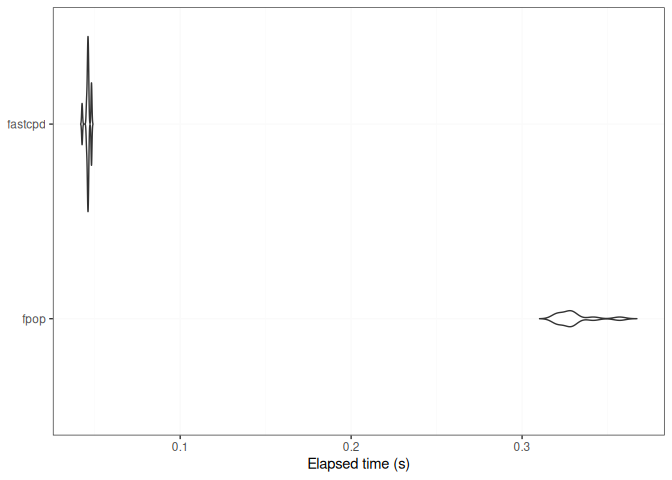
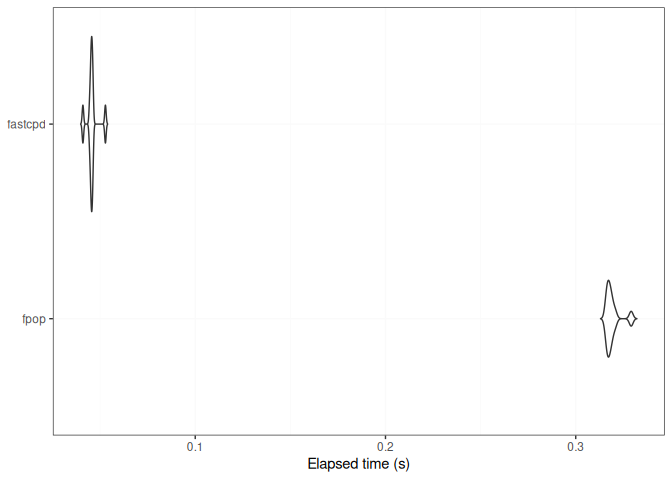
Show Python benchmark runtimes in fastcpd README

diff --git a/README.md b/README.md
@@ -61,16 +61,16 @@ n <- 10^7
 mean_data <- c(rnorm(n / 2, 0, 1), rnorm(n / 2, 50, 1))
 print(run_isolated(fastcpd::detect_mean(mean_data, cp_only = TRUE, variance_estimation = 1)))
 #>    user  system elapsed 
-#>   0.745   0.194   0.981
+#>   0.729   0.201   0.930
 print(run_isolated(mosum::mosum(c(mean_data), G = 40)))
 #>    user  system elapsed 
-#>   1.282   0.696   2.236
+#>   1.219   0.667   1.893
 print(run_isolated(changepoint::cpt.mean(mean_data, method = "PELT")))
 #>    user  system elapsed 
-#>   3.381   0.665   4.418
+#>   3.326   0.598   3.929
 print(run_isolated(fpop::Fpop(mean_data, 2 * log(n))))
 #>    user  system elapsed 
-#>   4.027   0.299   4.483
+#>   3.953   0.262   4.218
 ```
 
 ![](https://raw.githubusercontent.com/doccstat/fastcpd-r/main/man/figures/README-time-comparison-fastbench-1.png)<!-- -->
@@ -78,23 +78,49 @@ print(run_isolated(fpop::Fpop(mean_data, 2 * log(n))))
 ### Python
 
 ``` python
+import time
+
+import fastcpd
 import numpy as np
-import ruptures as rpt
-from fastcpd import detect_mean
-from sdt.changepoint import Pelt as SdtPelt
-from skchange.detectors import PELT
-from skchange.interval_scorers import L2Cost
+import ruptures
+import sdt
+import sdt.changepoint
+import skchange
+import skchange.detectors
+import skchange.interval_scorers
 
 rng = np.random.default_rng(1)
-n = 1_000
+n = int(1e6)
 x = np.r_[rng.normal(0, 1, n // 2), rng.normal(50, 1, n // 2)]
+step = 10_000
 
+start = time.perf_counter()
+fastcpd.detect_mean(x, variance_estimation=1, cp_only=True)
+print(f"fastcpd: {time.perf_counter() - start:.3f} s")
 
-benchmark("fastcpd", lambda: detect_mean(x, variance_estimation=1, cp_only=True))
-benchmark("skchange", lambda: PELT(cost=L2Cost(), penalty=2 * np.log(n), min_segment_length=1).fit_predict(x.reshape(-1, 1)))
-benchmark("sdt-python", lambda: SdtPelt(cost="l2", min_size=1, jump=1).find_changepoints(x, penalty=2 * np.log(n)))
-benchmark("ruptures", lambda: rpt.Pelt(model="l2", min_size=1, jump=1).fit(x).predict(pen=2 * np.log(n)))
+start = time.perf_counter()
+skchange.detectors.PELT(
+    cost=skchange.interval_scorers.L2Cost(), penalty=2 * np.log(n), step_size=step
+).fit_predict(x.reshape(-1, 1))
+print(f"skchange: {time.perf_counter() - start:.3f} s")
+
+start = time.perf_counter()
+sdt.changepoint.Pelt(cost="l2", min_size=step, jump=step).find_changepoints(
+    x, penalty=2 * np.log(n)
+)
+print(f"sdt-python: {time.perf_counter() - start:.3f} s")
+
+start = time.perf_counter()
+ruptures.Pelt(model="l2", min_size=step, jump=step).fit(x).predict(
+    pen=2 * np.log(n)
+)
+print(f"ruptures: {time.perf_counter() - start:.3f} s")
 ```
+
+    #> fastcpd: 0.061 s
+    #> skchange: 0.316 s
+    #> sdt-python: 5.989 s
+    #> ruptures: 0.852 s
 
 ![](https://raw.githubusercontent.com/doccstat/fastcpd-r/main/man/figures/README-time-comparison-python-plot-1.png)<!-- -->
 
